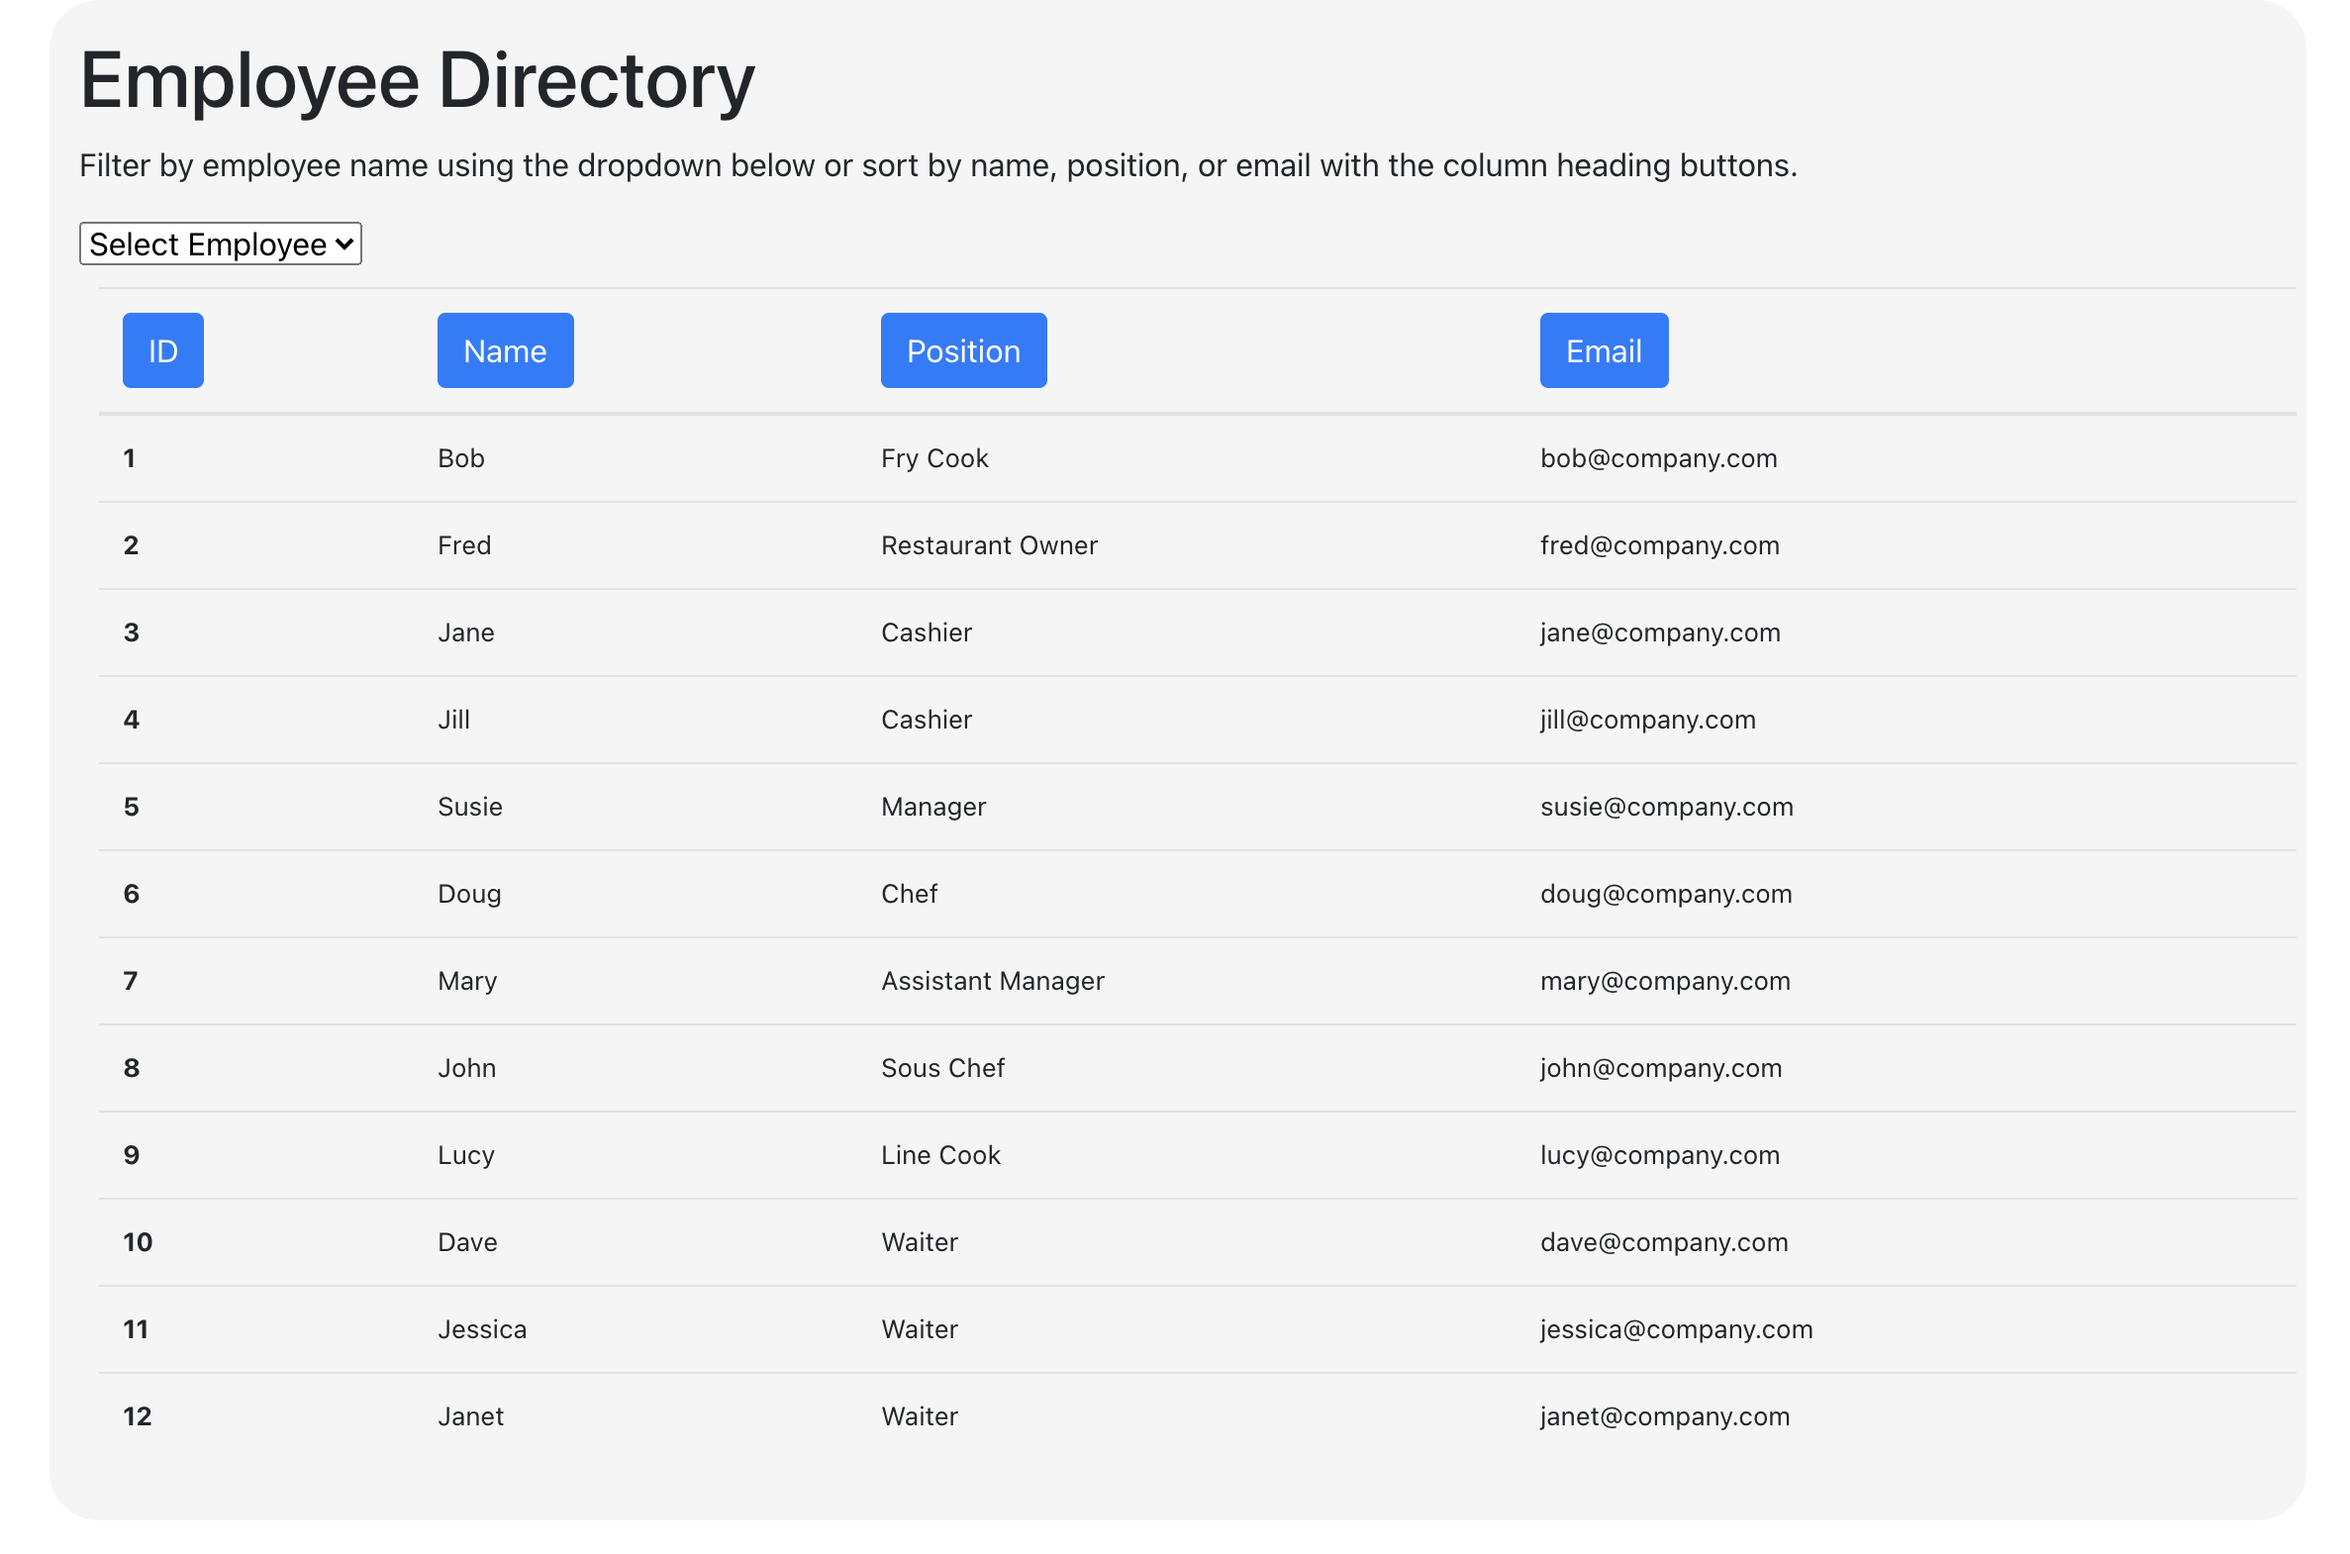
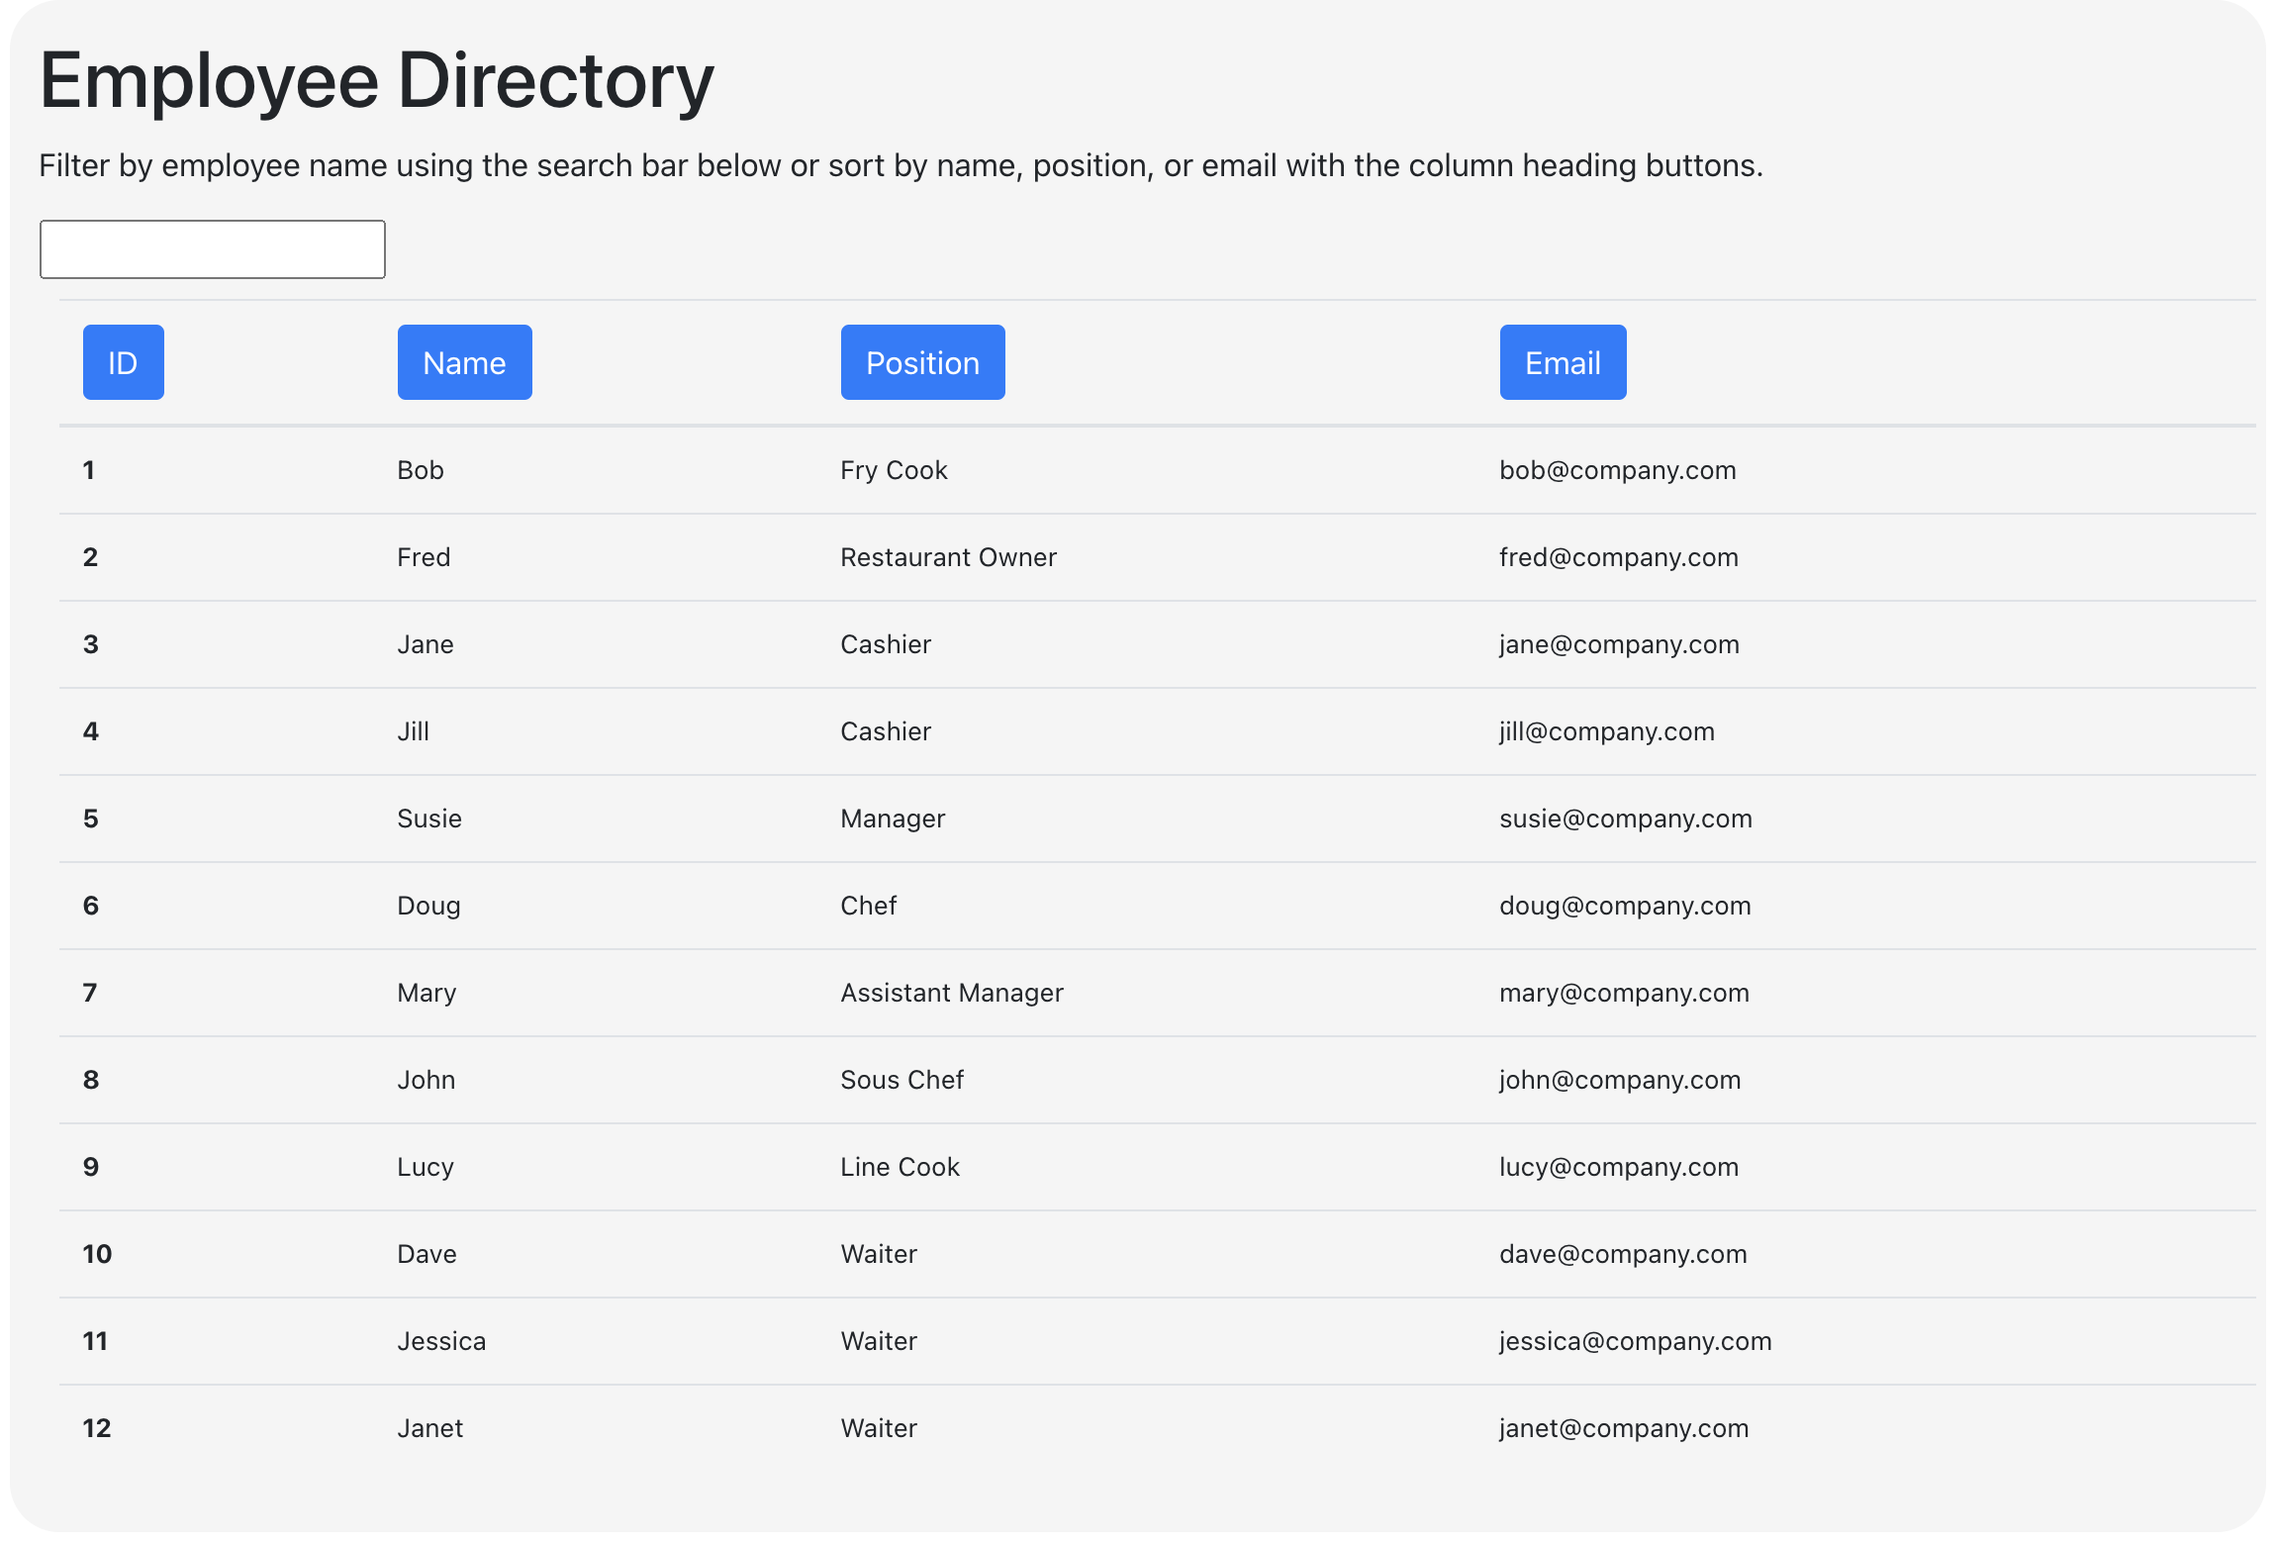
Updated screenshot in README

diff --git a/build/index.html b/build/index.html
@@ -1,1 +1,1 @@
-<!doctype html><html lang="en"><head><meta charset="utf-8"/><link rel="icon" href="/EmployeeDirectory/favicon.ico"/><meta name="viewport" content="width=device-width,initial-scale=1"/><meta name="theme-color" content="#000000"/><link rel="stylesheet" href="https://stackpath.bootstrapcdn.com/bootswatch/4.5.2/yeti/bootstrap.min.css"/><link rel="stylesheet" href="./styles.css"/><meta name="description" content="Web site created using create-react-app"/><link rel="apple-touch-icon" href="/EmployeeDirectory/logo192.png"/><link rel="manifest" href="/EmployeeDirectory/manifest.json"/><title>Employee Directory</title><link href="/EmployeeDirectory/static/css/2.1a02f21c.chunk.css" rel="stylesheet"><link href="/EmployeeDirectory/static/css/main.c34baaed.chunk.css" rel="stylesheet"></head><body><noscript>You need to enable JavaScript to run this app.</noscript><div id="root"></div><script>!function(e){function r(r){for(var n,i,a=r[0],c=r[1],l=r[2],p=0,s=[];p<a.length;p++)i=a[p],Object.prototype.hasOwnProperty.call(o,i)&&o[i]&&s.push(o[i][0]),o[i]=0;for(n in c)Object.prototype.hasOwnProperty.call(c,n)&&(e[n]=c[n]);for(f&&f(r);s.length;)s.shift()();return u.push.apply(u,l||[]),t()}function t(){for(var e,r=0;r<u.length;r++){for(var t=u[r],n=!0,a=1;a<t.length;a++){var c=t[a];0!==o[c]&&(n=!1)}n&&(u.splice(r--,1),e=i(i.s=t[0]))}return e}var n={},o={1:0},u=[];function i(r){if(n[r])return n[r].exports;var t=n[r]={i:r,l:!1,exports:{}};return e[r].call(t.exports,t,t.exports,i),t.l=!0,t.exports}i.e=function(e){var r=[],t=o[e];if(0!==t)if(t)r.push(t[2]);else{var n=new Promise((function(r,n){t=o[e]=[r,n]}));r.push(t[2]=n);var u,a=document.createElement("script");a.charset="utf-8",a.timeout=120,i.nc&&a.setAttribute("nonce",i.nc),a.src=function(e){return i.p+"static/js/"+({}[e]||e)+"."+{3:"95640c2a"}[e]+".chunk.js"}(e);var c=new Error;u=function(r){a.onerror=a.onload=null,clearTimeout(l);var t=o[e];if(0!==t){if(t){var n=r&&("load"===r.type?"missing":r.type),u=r&&r.target&&r.target.src;c.message="Loading chunk "+e+" failed.\n("+n+": "+u+")",c.name="ChunkLoadError",c.type=n,c.request=u,t[1](c)}o[e]=void 0}};var l=setTimeout((function(){u({type:"timeout",target:a})}),12e4);a.onerror=a.onload=u,document.head.appendChild(a)}return Promise.all(r)},i.m=e,i.c=n,i.d=function(e,r,t){i.o(e,r)||Object.defineProperty(e,r,{enumerable:!0,get:t})},i.r=function(e){"undefined"!=typeof Symbol&&Symbol.toStringTag&&Object.defineProperty(e,Symbol.toStringTag,{value:"Module"}),Object.defineProperty(e,"__esModule",{value:!0})},i.t=function(e,r){if(1&r&&(e=i(e)),8&r)return e;if(4&r&&"object"==typeof e&&e&&e.__esModule)return e;var t=Object.create(null);if(i.r(t),Object.defineProperty(t,"default",{enumerable:!0,value:e}),2&r&&"string"!=typeof e)for(var n in e)i.d(t,n,function(r){return e[r]}.bind(null,n));return t},i.n=function(e){var r=e&&e.__esModule?function(){return e.default}:function(){return e};return i.d(r,"a",r),r},i.o=function(e,r){return Object.prototype.hasOwnProperty.call(e,r)},i.p="/EmployeeDirectory/",i.oe=function(e){throw console.error(e),e};var a=this.webpackJsonpemployeedirectory=this.webpackJsonpemployeedirectory||[],c=a.push.bind(a);a.push=r,a=a.slice();for(var l=0;l<a.length;l++)r(a[l]);var f=c;t()}([])</script><script src="/EmployeeDirectory/static/js/2.7b8a1325.chunk.js"></script><script src="/EmployeeDirectory/static/js/main.6795c131.chunk.js"></script></body></html>
+<!doctype html><html lang="en"><head><meta charset="utf-8"/><link rel="icon" href="/EmployeeDirectory/favicon.ico"/><meta name="viewport" content="width=device-width,initial-scale=1"/><meta name="theme-color" content="#000000"/><link rel="stylesheet" href="https://stackpath.bootstrapcdn.com/bootswatch/4.5.2/yeti/bootstrap.min.css"/><link rel="stylesheet" href="./styles.css"/><meta name="description" content="Web site created using create-react-app"/><link rel="apple-touch-icon" href="/EmployeeDirectory/logo192.png"/><link rel="manifest" href="/EmployeeDirectory/manifest.json"/><title>Employee Directory</title><link href="/EmployeeDirectory/static/css/2.1a02f21c.chunk.css" rel="stylesheet"><link href="/EmployeeDirectory/static/css/main.c34baaed.chunk.css" rel="stylesheet"></head><body><noscript>You need to enable JavaScript to run this app.</noscript><div id="root"></div><script>!function(e){function r(r){for(var n,i,a=r[0],c=r[1],l=r[2],p=0,s=[];p<a.length;p++)i=a[p],Object.prototype.hasOwnProperty.call(o,i)&&o[i]&&s.push(o[i][0]),o[i]=0;for(n in c)Object.prototype.hasOwnProperty.call(c,n)&&(e[n]=c[n]);for(f&&f(r);s.length;)s.shift()();return u.push.apply(u,l||[]),t()}function t(){for(var e,r=0;r<u.length;r++){for(var t=u[r],n=!0,a=1;a<t.length;a++){var c=t[a];0!==o[c]&&(n=!1)}n&&(u.splice(r--,1),e=i(i.s=t[0]))}return e}var n={},o={1:0},u=[];function i(r){if(n[r])return n[r].exports;var t=n[r]={i:r,l:!1,exports:{}};return e[r].call(t.exports,t,t.exports,i),t.l=!0,t.exports}i.e=function(e){var r=[],t=o[e];if(0!==t)if(t)r.push(t[2]);else{var n=new Promise((function(r,n){t=o[e]=[r,n]}));r.push(t[2]=n);var u,a=document.createElement("script");a.charset="utf-8",a.timeout=120,i.nc&&a.setAttribute("nonce",i.nc),a.src=function(e){return i.p+"static/js/"+({}[e]||e)+"."+{3:"95640c2a"}[e]+".chunk.js"}(e);var c=new Error;u=function(r){a.onerror=a.onload=null,clearTimeout(l);var t=o[e];if(0!==t){if(t){var n=r&&("load"===r.type?"missing":r.type),u=r&&r.target&&r.target.src;c.message="Loading chunk "+e+" failed.\n("+n+": "+u+")",c.name="ChunkLoadError",c.type=n,c.request=u,t[1](c)}o[e]=void 0}};var l=setTimeout((function(){u({type:"timeout",target:a})}),12e4);a.onerror=a.onload=u,document.head.appendChild(a)}return Promise.all(r)},i.m=e,i.c=n,i.d=function(e,r,t){i.o(e,r)||Object.defineProperty(e,r,{enumerable:!0,get:t})},i.r=function(e){"undefined"!=typeof Symbol&&Symbol.toStringTag&&Object.defineProperty(e,Symbol.toStringTag,{value:"Module"}),Object.defineProperty(e,"__esModule",{value:!0})},i.t=function(e,r){if(1&r&&(e=i(e)),8&r)return e;if(4&r&&"object"==typeof e&&e&&e.__esModule)return e;var t=Object.create(null);if(i.r(t),Object.defineProperty(t,"default",{enumerable:!0,value:e}),2&r&&"string"!=typeof e)for(var n in e)i.d(t,n,function(r){return e[r]}.bind(null,n));return t},i.n=function(e){var r=e&&e.__esModule?function(){return e.default}:function(){return e};return i.d(r,"a",r),r},i.o=function(e,r){return Object.prototype.hasOwnProperty.call(e,r)},i.p="/EmployeeDirectory/",i.oe=function(e){throw console.error(e),e};var a=this.webpackJsonpemployeedirectory=this.webpackJsonpemployeedirectory||[],c=a.push.bind(a);a.push=r,a=a.slice();for(var l=0;l<a.length;l++)r(a[l]);var f=c;t()}([])</script><script src="/EmployeeDirectory/static/js/2.7b8a1325.chunk.js"></script><script src="/EmployeeDirectory/static/js/main.5a6873ea.chunk.js"></script></body></html>

diff --git a/build/static/js/main.5a6873ea.chunk.js b/build/static/js/main.5a6873ea.chunk.js
@@ -1,0 +1,2 @@
+(this.webpackJsonpemployeedirectory=this.webpackJsonpemployeedirectory||[]).push([[0],{11:function(e,t,n){},12:function(e,t,n){},14:function(e,t,n){"use strict";n.r(t);var c=n(0),a=n(1),o=n.n(a),i=n(5),r=n.n(i),s=(n(11),n(2));n(12);var l=function(e){var t=e.users;return Object(c.jsx)(c.Fragment,{children:t.map((function(e){var t=e.id,n=e.name,a=e.occupation,o=e.email;return Object(c.jsxs)("tr",{children:[Object(c.jsx)("th",{scope:"row",children:t}),Object(c.jsx)("td",{children:n}),Object(c.jsx)("td",{children:a}),Object(c.jsx)("td",{children:o})]},t)}))})};var m=function(e){var t=e.users,n=e.sort;return e.users.sort((function(e,t){return e[n]>t[n]?1:-1})),Object(c.jsx)(l,{users:t})};var u=function(e){var t=e.users,n=Object(a.useState)("id"),o=Object(s.a)(n,2),i=o[0],r=o[1],l=function(e){r(e.target.id)};return console.log("Table users: "+t),Object(c.jsxs)("table",{className:"table",children:[Object(c.jsx)("thead",{children:Object(c.jsxs)("tr",{children:[Object(c.jsx)("th",{scope:"col",children:Object(c.jsx)("button",{id:"id",onClick:l,type:"button",className:"btn btn-primary",children:"ID"})}),Object(c.jsx)("th",{scope:"col",children:Object(c.jsx)("button",{id:"name",onClick:l,type:"button",className:"btn btn-primary",children:"Name"})}),Object(c.jsx)("th",{scope:"col",children:Object(c.jsx)("button",{id:"occupation",onClick:l,type:"button",className:"btn btn-primary",children:"Position"})}),Object(c.jsx)("th",{scope:"col",children:Object(c.jsx)("button",{id:"email",onClick:l,type:"button",className:"btn btn-primary",children:"Email"})})]})}),Object(c.jsx)("tbody",{children:Object(c.jsx)(m,{users:t,sort:i})})]})},j=n(4);var b=function(e){var t=e.handleInputChange;return Object(c.jsx)("form",{children:Object(c.jsx)("input",{className:"mdb-select md-form colorful-select dropdown-primary",onChange:function(e){return t(e)}})})};var d=function(){var e=Object(a.useState)(j),t=Object(s.a)(e,2),n=t[0],o=t[1],i=Object(a.useState)(""),r=Object(s.a)(i,2),l=r[0],m=r[1];return Object(a.useEffect)((function(){if(l){var e=n.filter((function(e){return e.name.includes(l)}));o(e)}else o(j)}),[l]),Object(c.jsxs)("div",{className:"container",children:[Object(c.jsx)("h1",{children:"Employee Directory"}),Object(c.jsx)("p",{children:"Filter by employee name using the search bar below or sort by name, position, or email with the column heading buttons."}),Object(c.jsx)(b,{results:l,handleInputChange:function(e){m(e.target.value)}}),Object(c.jsx)(u,{users:n})]})},p=function(e){e&&e instanceof Function&&n.e(3).then(n.bind(null,15)).then((function(t){var n=t.getCLS,c=t.getFID,a=t.getFCP,o=t.getLCP,i=t.getTTFB;n(e),c(e),a(e),o(e),i(e)}))};n(13);r.a.render(Object(c.jsx)(o.a.StrictMode,{children:Object(c.jsx)(d,{})}),document.getElementById("root")),p()},4:function(e){e.exports=JSON.parse('[{"id":1,"name":"Bob","occupation":"Fry Cook","email":"bob@company.com"},{"id":2,"name":"Fred","occupation":"Restaurant Owner","email":"fred@company.com"},{"id":3,"name":"Jane","occupation":"Cashier","email":"jane@company.com"},{"id":4,"name":"Jill","occupation":"Cashier","email":"jill@company.com"},{"id":5,"name":"Susie","occupation":"Manager","email":"susie@company.com"},{"id":6,"name":"Doug","occupation":"Chef","email":"doug@company.com"},{"id":7,"name":"Mary","occupation":"Assistant Manager","email":"mary@company.com"},{"id":8,"name":"John","occupation":"Sous Chef","email":"john@company.com"},{"id":9,"name":"Lucy","occupation":"Line Cook","email":"lucy@company.com"},{"id":10,"name":"Dave","occupation":"Waiter","email":"dave@company.com"},{"id":11,"name":"Jessica","occupation":"Waiter","email":"jessica@company.com"},{"id":12,"name":"Janet","occupation":"Waiter","email":"janet@company.com"}]')}},[[14,1,2]]]);
+//# sourceMappingURL=main.5a6873ea.chunk.js.map
